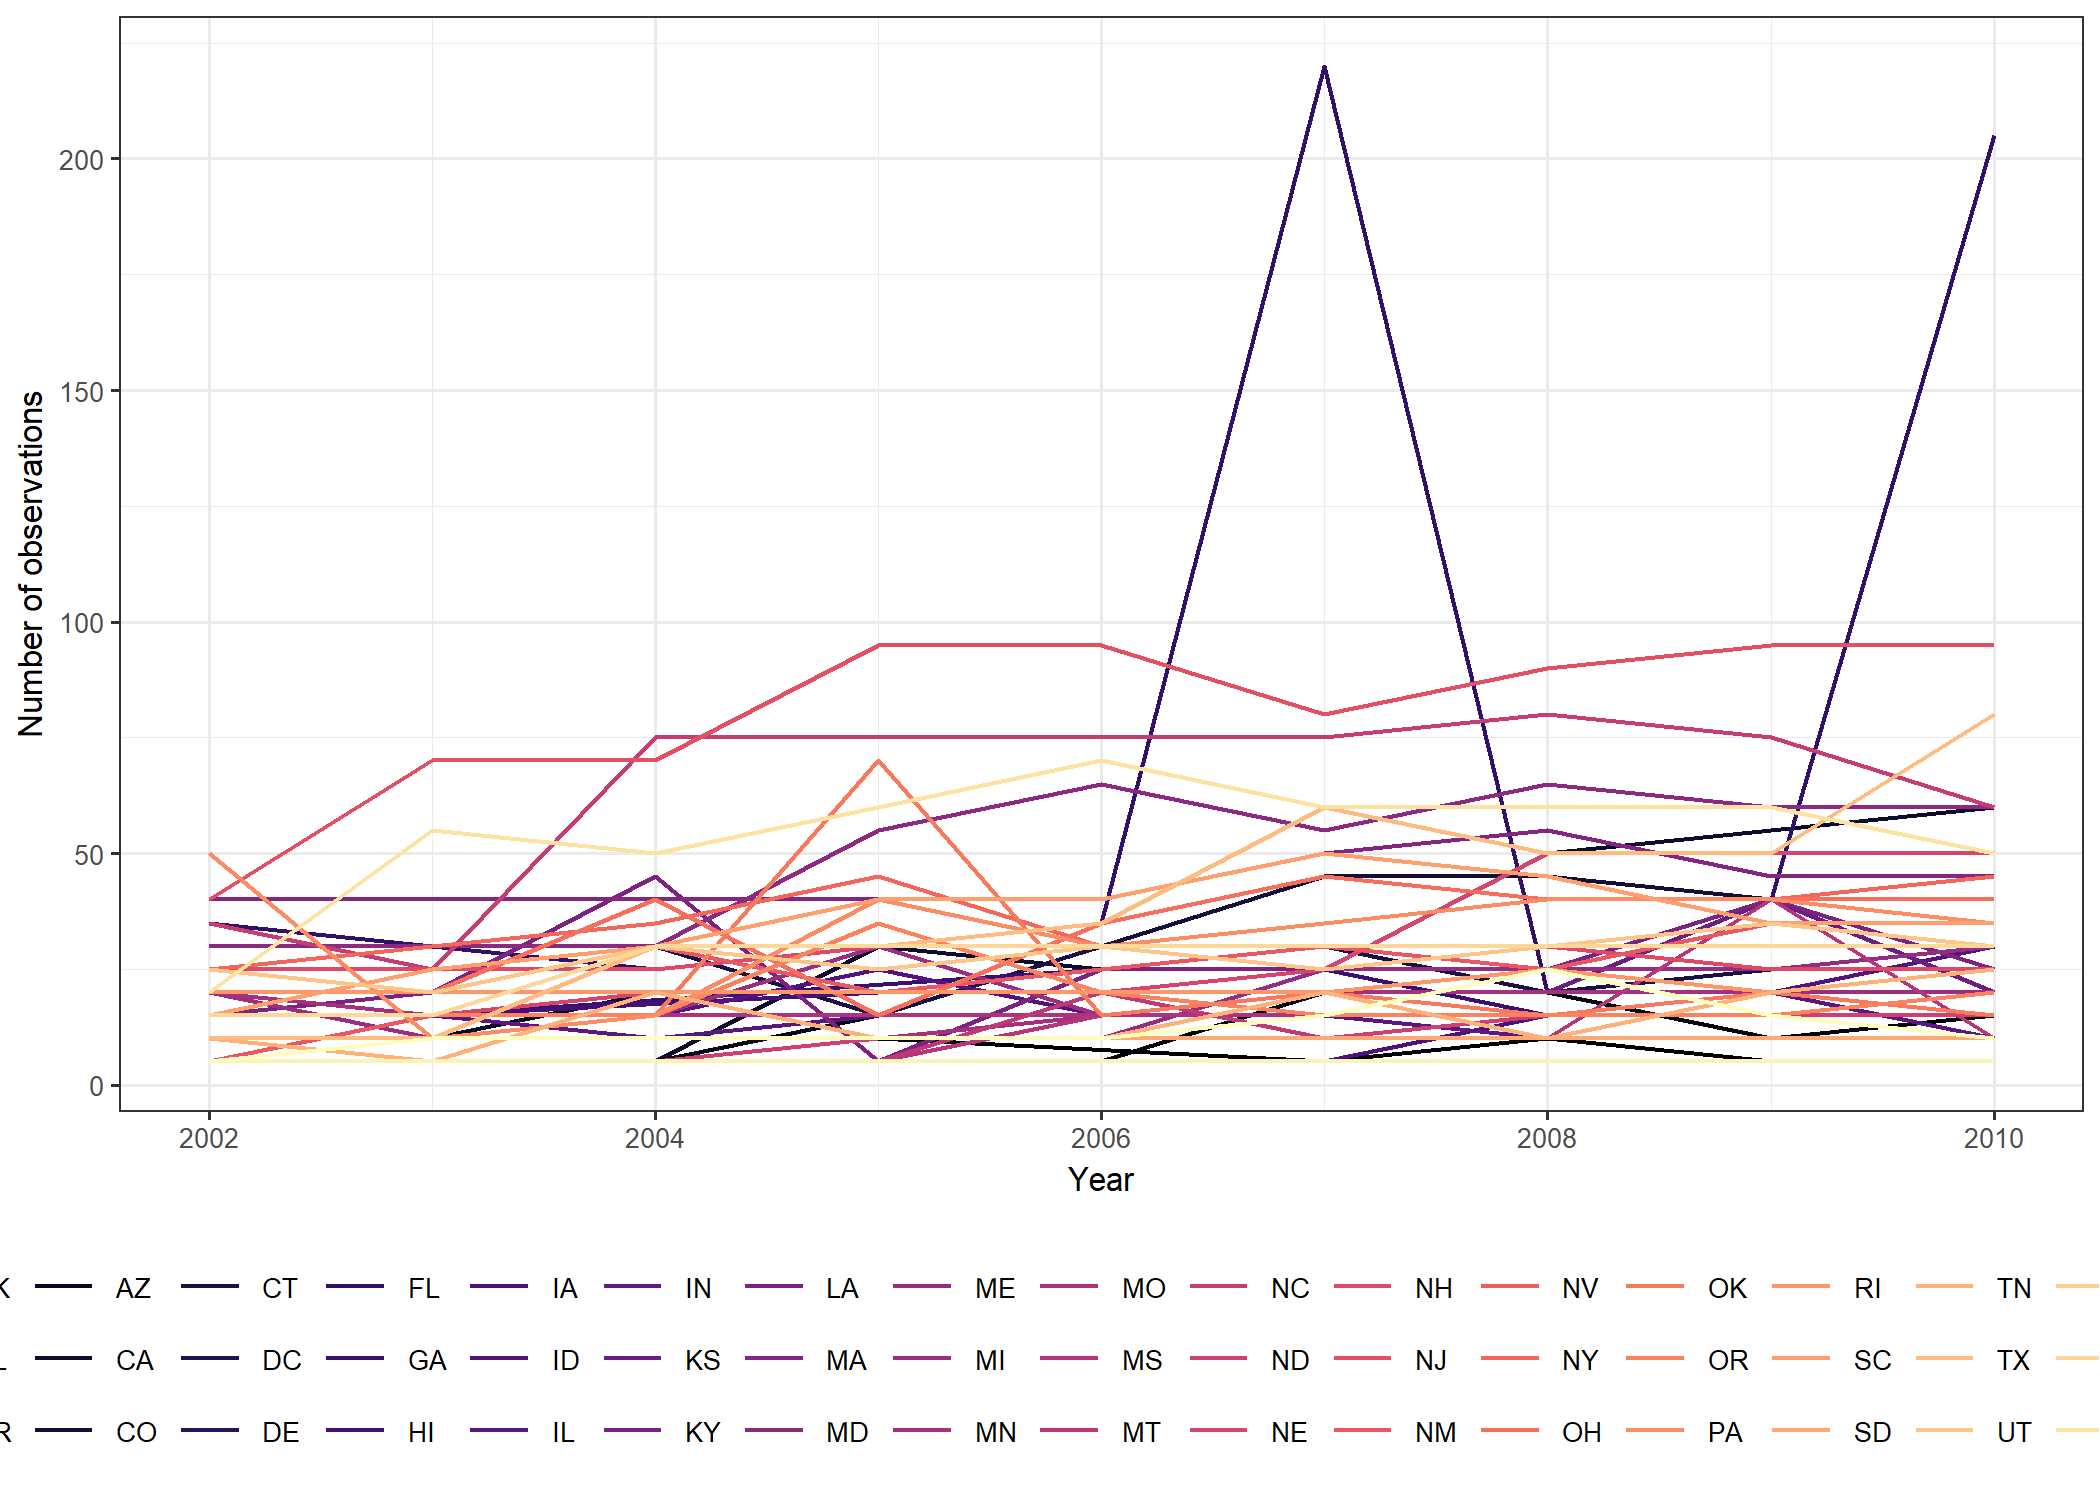
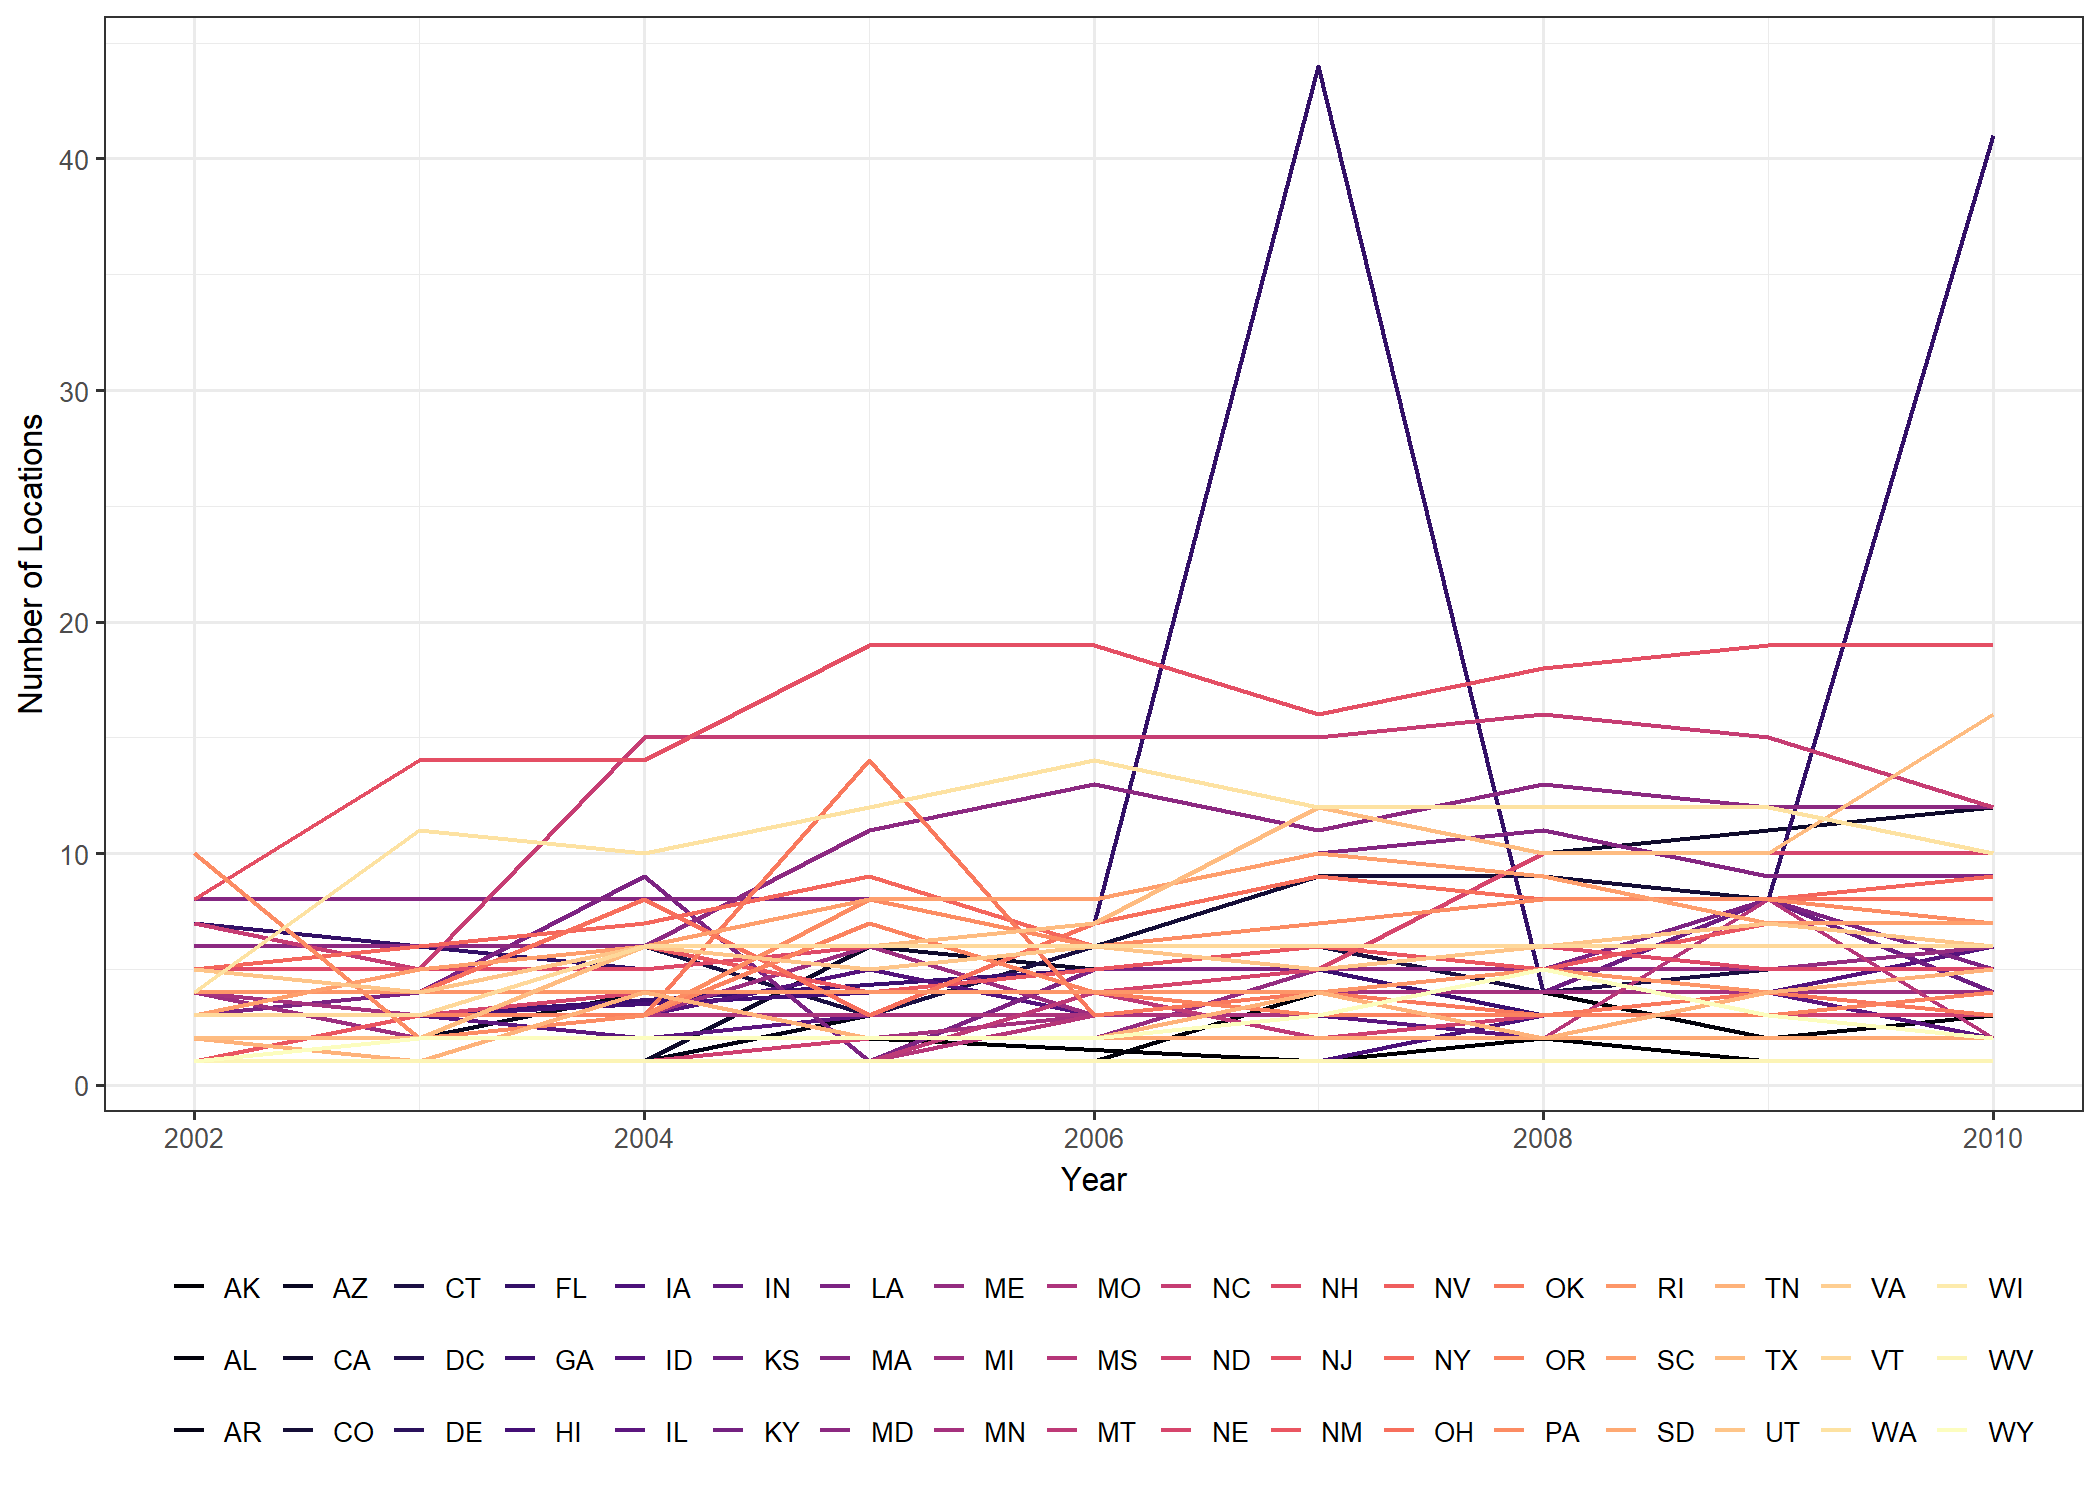
spaghetti plot edits
changed aspect ratio of spaghetti plot, also changed y axis to show number of locations instead of number of observations

diff --git a/p8105_hw3_ntw2117.md b/p8105_hw3_ntw2117.md
@@ -42,17 +42,19 @@ brfss_data %>%
 ``` r
 brfss_data %>% 
   group_by(state, year) %>% 
-  summarize(n_obs = n()) %>% 
-  ggplot(aes(x = year, y = n_obs)) + 
+  distinct(location) %>% 
+  count(state) %>% 
+  ggplot(aes(x = year, y = n)) + 
     geom_line(aes(color = state)) + 
     viridis::scale_color_viridis(
       name = "", 
       discrete = TRUE, 
       option = "magma") +
     labs(x = "Year", 
-         y = "Number of observations") + 
+         y = "Number of Locations") + 
     theme(legend.position = "bottom", 
-          legend.direction = "horizontal") + 
+          legend.direction = "horizontal", 
+          legend.key.width = unit(.125, "in")) + 
     guides(color = guide_legend(ncol = 17))
 ```
 
